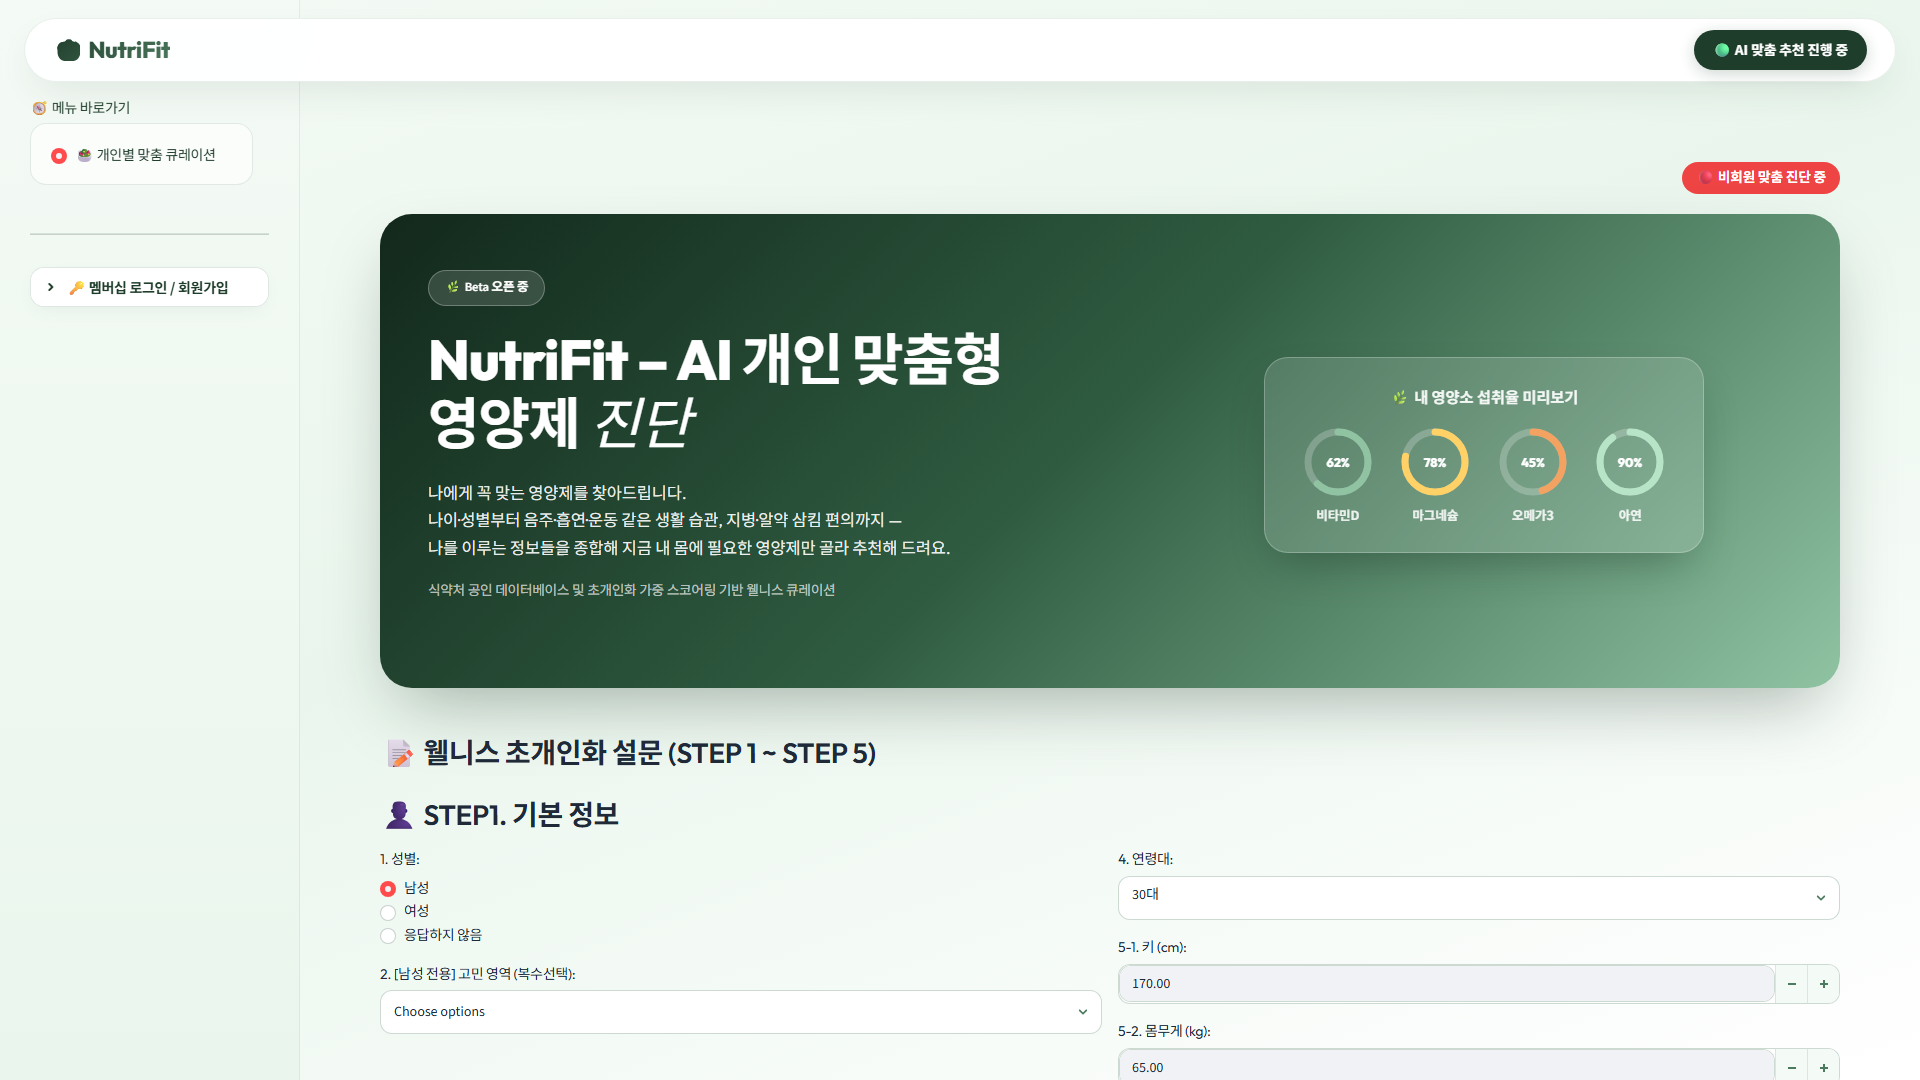
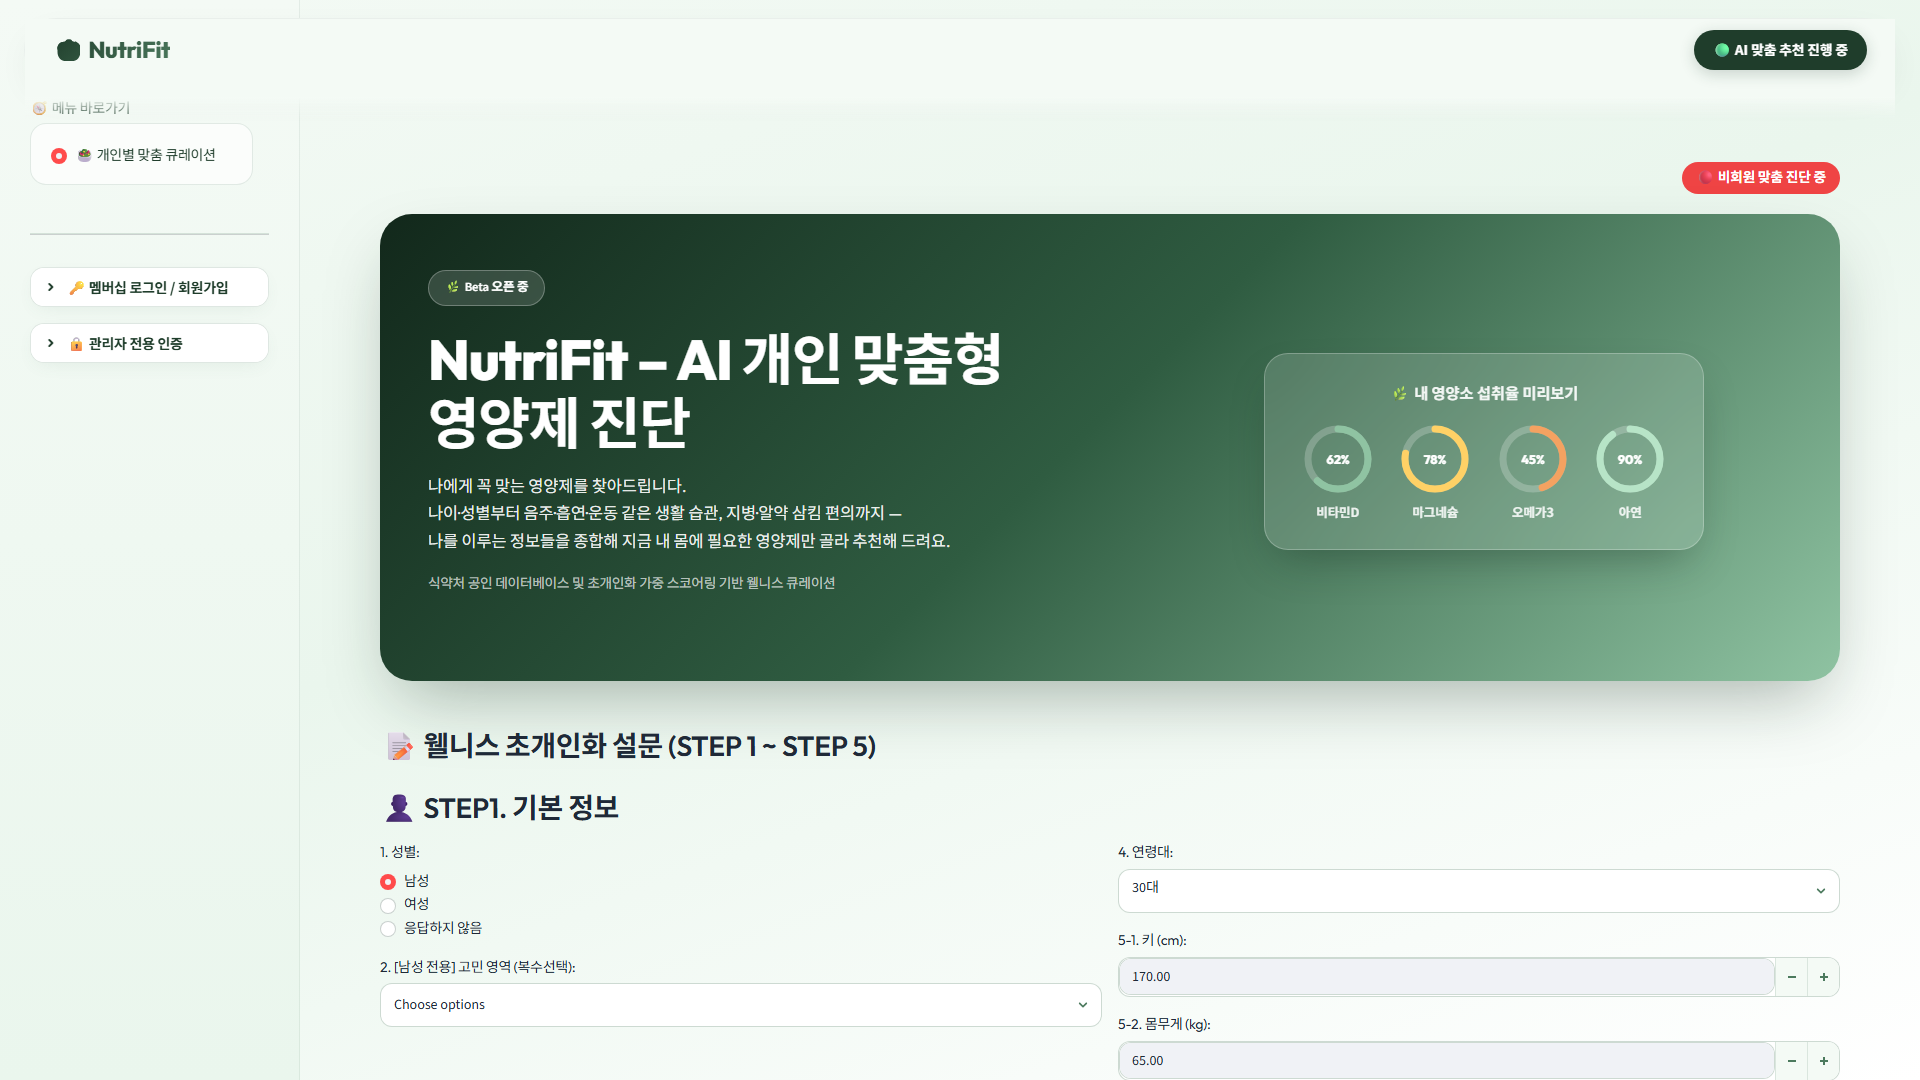
style: deploy new app.py version and update rendering screenshots

diff --git a/app.py b/app.py
@@ -451,10 +451,10 @@ html, body, [data-testid="stAppViewContainer"] {
 }
 
 /* 이탤릭 세리프 포인트 (헤드라인 강조 단어 전용) */
+/* 이탤릭 사용 해제 — 강조는 굵기로만 표현 */
 .accent-italic {
-    font-family: 'Newsreader', 'Noto Sans KR', serif !important;
-    font-style: italic;
-    font-weight: 500 !important;
+    font-style: normal !important;
+    font-weight: 800 !important;
 }
 
 /* 스트림릿 기본 탑 헤더 숨김 처리 */
@@ -745,7 +745,7 @@ li[role="option"][aria-selected="true"] * {
     display: flex;
     justify-content: space-between;
     align-items: center;
-    background: rgba(255, 255, 255, 0.92);
+    background: rgba(255, 255, 255, 0.97);
     border: 1px solid rgba(76, 122, 94, 0.12);
     padding: 12px 28px;
     position: fixed;
@@ -758,6 +758,18 @@ li[role="option"][aria-selected="true"] * {
     box-shadow: 0 15px 40px -12px rgba(31, 61, 43, 0.12);
     height: 64px;
     transition: all 0.3s ease-in-out;
+}
+/* 알약 바 뒤 전체 폭 불투명 스트립 — 스크롤 시 콘텐츠가 바 위/옆 틈으로 겹쳐 보이는 문제 차단 */
+.gnb-header::before {
+    content: '';
+    position: fixed;
+    top: 0;
+    left: 0;
+    right: 0;
+    height: 100px;
+    background: linear-gradient(180deg, #F4FAF5 0%, #F4FAF5 78%, rgba(244, 250, 245, 0) 100%);
+    z-index: -1;
+    pointer-events: none;
 }
 .gnb-logo {
     font-family: 'Outfit', sans-serif;
@@ -1176,13 +1188,12 @@ li[role="option"][aria-selected="true"] * {
 """, unsafe_allow_html=True)
 
     # ===== 로그인/회원가입/관리자 인증은 메인 화면에서 완전히 제거, 사이드바 최하단으로 이동 =====
-    # 관리자 페이지는 URL 쿼리 파라미터(?admin=1)로 접근했을 때만 사이드바에 노출
-    _admin_access_requested = st.query_params.get("admin") == "1"
+    # 관리자 인증 패널은 사이드바 최하단에 항상 노출 (인증 성공 시에만 관리자 메뉴 활성화)
 
     admin_mode = (st.session_state.admin_password_val == "nutrifit2026!")
 
     menu_options = ["🥗 개인별 맞춤 큐레이션"]
-    if admin_mode and _admin_access_requested:
+    if admin_mode:
         menu_options.append("📊 뉴트리핏 데이터 인사이트 (Admin)")
 
     selected_menu = st.sidebar.radio("🧭 메뉴 바로가기", menu_options, index=0)
@@ -1223,17 +1234,16 @@ li[role="option"][aria-selected="true"] * {
                 else:
                     st.error("모든 정보를 올바르게 기입해 주세요.")
 
-    # 관리자 인증 패널 자체도 ?admin=1 접근일 때만 사이드바에 노출 (일반 소비자에게는 완전 비노출)
-    if _admin_access_requested:
-        with st.sidebar.expander("🔒 관리자 전용 인증", expanded=not admin_mode):
-            admin_password_input = st.text_input("관리자 인증 비밀번호:", type="password", value=st.session_state.admin_password_val, key="admin_pwd_input")
-            if admin_password_input != st.session_state.admin_password_val:
-                st.session_state.admin_password_val = admin_password_input
-                st.rerun()
-            if st.session_state.admin_password_val == "nutrifit2026!":
-                st.success("🔒 관리자 인증 성공")
-            elif st.session_state.admin_password_val:
-                st.error("비밀번호가 일치하지 않습니다.")
+    # 관리자 인증 패널 — 사이드바 최하단 상시 노출 (기본 접힘, 인증 성공 시 관리자 메뉴 활성화)
+    with st.sidebar.expander("🔒 관리자 전용 인증", expanded=False):
+        admin_password_input = st.text_input("관리자 인증 비밀번호:", type="password", value=st.session_state.admin_password_val, key="admin_pwd_input")
+        if admin_password_input != st.session_state.admin_password_val:
+            st.session_state.admin_password_val = admin_password_input
+            st.rerun()
+        if st.session_state.admin_password_val == "nutrifit2026!":
+            st.success("🔒 관리자 인증 성공 — 메뉴에 '데이터 인사이트'가 활성화되었습니다.")
+        elif st.session_state.admin_password_val:
+            st.error("비밀번호가 일치하지 않습니다.")
 
     # 2. 최상단 회원/비회원 배지 동적 노출 (백오피스 페이지가 아닐 때만 노출)
     if selected_menu == "🥗 개인별 맞춤 큐레이션":
@@ -1255,7 +1265,7 @@ li[role="option"][aria-selected="true"] * {
     <div class="hero-flex">
         <div class="hero-flex-text">
             <span class="hero-badge">🌿 Beta 오픈 중</span>
-            <div class="main-title">NutriFit – AI 개인 맞춤형<br>영양제 <span class="accent-italic">진단</span></div>
+            <div class="main-title">NutriFit – AI 개인 맞춤형<br>영양제 진단</div>
             <div class="hero-desc">나에게 꼭 맞는 영양제를 찾아드립니다.<br>나이·성별부터 음주·흡연·운동 같은 생활 습관, 지병·알약 삼킴 편의까지 —<br>나를 이루는 정보들을 종합해 지금 내 몸에 필요한 영양제만 골라 추천해 드려요.</div>
             <div class="sub-title">식약처 공인 데이터베이스 및 초개인화 가중 스코어링 기반 웰니스 큐레이션</div>
         </div>